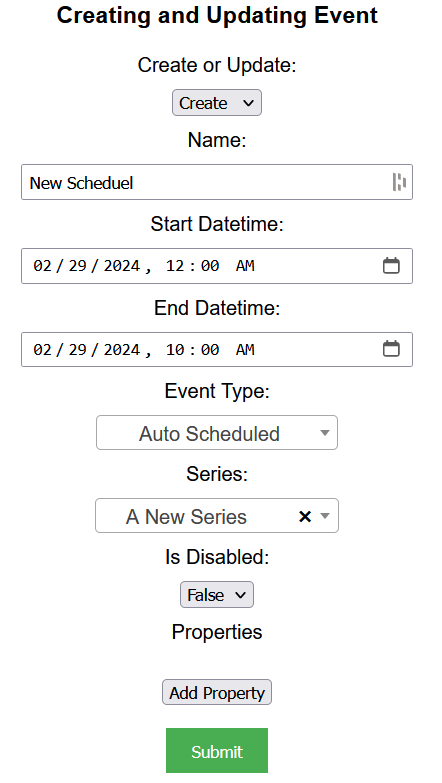
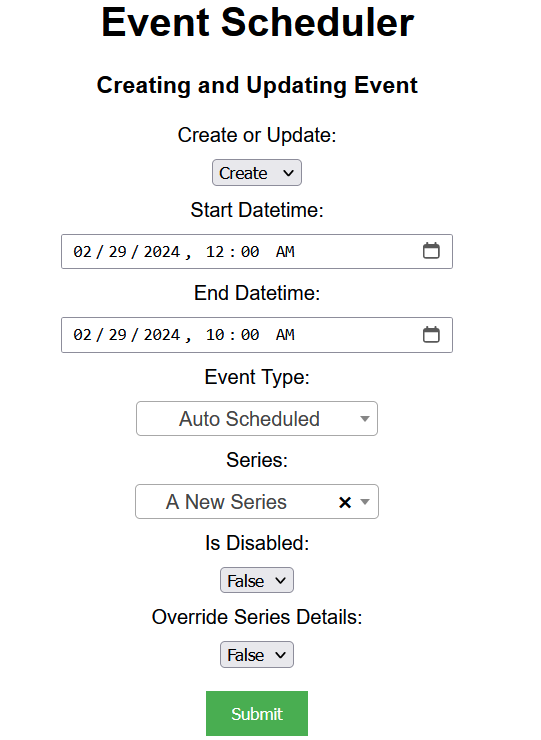
updated path

diff --git a/event-scheduler/server.js b/event-scheduler/server.js
@@ -78,6 +78,10 @@ app.get('/get-days-list', upload.none(), async (req, res) =>
 app.post('/create-event', upload.none(), async (req, res) => {
     try
     {
+        const CONTENT_ID = req.body.createOrUpdateEventSelect === "update" ? req.body.contnetId : null;
+
+        const NAME = req.body.overrideSeriesDetails === "true" ? req.body.name : null;
+            
         const EVENT_TYPE = JSON.parse(req.body.eventTypeSelect);
 
         const SERIES = req.body.seriesSelect 
@@ -86,28 +90,32 @@ app.post('/create-event', upload.none(), async (req, res) => {
             
         const PROPERTIES = {}
 
-        if (typeof req.body.key === "string")
-        {
-            req.body.key = [req.body.key];
-            req.body.value = [req.body.value];
-        }
-
-        for (let propertyIdx = 0; propertyIdx < req.body.key.length; ++propertyIdx)
-        {
-            let value = req.body.value[propertyIdx];
-            try
+        if (req.body.key)
+        {         
+            if (typeof req.body.key === "string")
             {
-                value = JSON.parse(value);
-            }
-            catch (error){}
+                req.body.key = [req.body.key];
+                req.body.value = [req.body.value];
+            }   
 
-            PROPERTIES[req.body.key[propertyIdx]] = value;
+            for (let propertyIdx = 0; propertyIdx < req.body.key.length; ++propertyIdx)
+            {
+                let value = req.body.value[propertyIdx];
+                try
+                {
+                    value = JSON.parse(value);
+                }
+                catch (error){}
+
+                PROPERTIES[req.body.key[propertyIdx]] = value;
+            }
         }
 
         const EVENT_ID = await NomadSDK.createAndUpdateEvent(
-            req.body.createOrUpdateEventSelect, EVENT_CONTENT_DEFINITION_ID,
-            req.body.name, req.body.startDatetime, req.body.endDatetime,
-            EVENT_TYPE, SERIES, req.body.isDisabled === "true", PROPERTIES);
+            CONTENT_ID, EVENT_CONTENT_DEFINITION_ID, NAME, 
+            req.body.startDatetime, req.body.endDatetime, EVENT_TYPE, SERIES, 
+            req.body.isDisabled === "true", req.body.overrideSeriesDetails === "true",
+            PROPERTIES);
         
         res.status(200).json(EVENT_ID);
     }

diff --git a/event-scheduler/public/event-scheduler.js b/event-scheduler/public/event-scheduler.js
@@ -7,11 +7,14 @@ const STOP_FORM = document.getElementById("stopForm");
 const DELETE_FORM = document.getElementById("deleteForm");
 
 const CREATE_OR_UPDATE_EVENT_DIV = document.getElementById("createOrUpdateEventDiv");
+const NAME_DIV = document.getElementById("nameDiv");
+const ADD_PROPERTIES_DIV = document.getElementById("addPropertiesDiv");
 const PROPERTIES_DIV = document.getElementById("propertiesDiv");
 
 const CREATE_OR_UPDATE_EVENT_SELECT = document.getElementById("createOrUpdateEventSelect");
 const EVENT_TYPE_SELECT = document.getElementById("eventTypeSelect");
 const SERIES_SELECT = document.getElementById("seriesSelect");
+const OVERRIDE_SERIES_DETAILS_SELECT = document.getElementById("overrideSeriesDetailsSelect");
 const PRIMARY_LIVESTREAM_INPUT_SELECT = document.getElementById("primaryLivestreamInputSelect");
 const BACKUP_LIVESTREAM_INPUT_SELECT = document.getElementById("backupLivestreamInputSelect");
 const EXTERNAL_OUTPUT_PROFILES_SELECT = document.getElementById("externalOutputProfilesSelect");
@@ -87,6 +90,22 @@ async function getDaysOfTheWeekList()
     $(DAYS_OF_THE_WEEK_SELECT).select2();
 }
 
+OVERRIDE_SERIES_DETAILS_SELECT.addEventListener("change", async function (event)
+{
+    event.preventDefault();
+
+    if (OVERRIDE_SERIES_DETAILS_SELECT.value === "true")
+    {
+        ADD_PROPERTIES_DIV.hidden = false;
+        NAME_DIV.hidden = false;
+    }
+    else
+    {
+        ADD_PROPERTIES_DIV.hidden = true;
+        NAME_DIV.hidden = true;
+    }
+});
+
 ADD_PROPERTY_BUTTON.addEventListener("click", async function (event)
 {
     event.preventDefault();
@@ -138,7 +157,6 @@ CREATE_FORM.addEventListener("submit", async function (event)
     event.preventDefault();
 
     const FORM_DATA = getElements(CREATE_FORM);
-    console.log(FORM_DATA);
 
     console.log(await sendRequest("/create-event", "POST", FORM_DATA));
 });

diff --git a/event-scheduler/public/event-scheduler.html b/event-scheduler/public/event-scheduler.html
@@ -52,8 +52,10 @@
             <input type="text" id="contentId">
         </div>
 
-        <label for="name">Name:</label>
-        <input type="text" id="name" required>
+        <div id="nameDiv" hidden>
+            <label for="name">Name:</label>
+            <input type="text" id="name">
+        </div>
 
         <label for="startDatetime">Start Datetime:</label>
         <input type="datetime-local" id="startDatetime" required>
@@ -76,10 +78,18 @@
             <option value="true">True</option>
         </select>
 
-        <label for="properties">Properties</label>
-        <div id="propertiesDiv"></div>
-        <br>
-        <button type="button" id="addPropertyButton">Add Property</button>
+        <label for="overrideSeriesDetailsSelect">Override Series Details:</label>
+        <select id="overrideSeriesDetailsSelect">
+            <option value="false" selected>False</option>
+            <option value="true">True</option>
+        </select>
+
+        <div id="addPropertiesDiv" hidden>
+            <label for="properties">Properties</label>
+            <div id="propertiesDiv" hidden></div>
+            <br>
+            <button type="button" id="addPropertyButton">Add Property</button>
+        </div>
 
         <br><br>
         <button type="submit">Submit</button>
